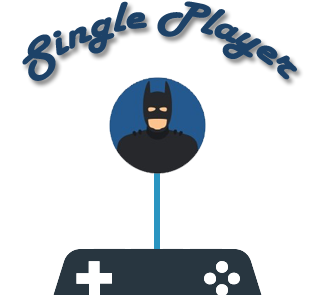
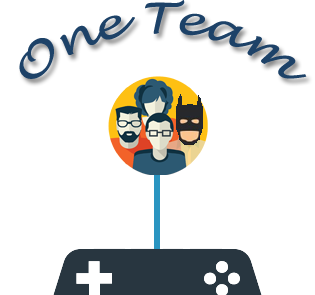
Hola Hop

Changed region(s): [[0.0571, 0.0, 1.0, 0.3051], [0.3429, 0.2441, 0.6857, 0.6102]]

diff --git a/www/templates/start.html b/www/templates/start.html
@@ -1,16 +1,21 @@
 <ion-view view-title="Playlist">
-  <ion-content>
+  <ion-content class="grey lighten-3">
   	<div class="container" style="height: 100%;">
-  	
-	<div style="height: 50%">
-	    <div class="card" style="height: 100%; position: relative; z-index: -1; background-image: url(img/up.png); background-repeat: no-repeat; background-position: 50% 100%; background-size: 60%;">
-	    </div>
-	</div>
-	<div style="height: 50%">
-	    <div class="card" style="height: 100%; position: relative; z-index: -1; background-image: url(img/down.png); background-repeat: no-repeat;     background-position: 50% 10%; background-size: 60%;">
-	    </div>
-	</div>
-	
+		<div style="height: 40%">
+			<a href="#/app/groupCreator">
+			    <div class="card" style="height: 100%; background-image: url(img/up.png); background-repeat: no-repeat; background-position: 50% 100%; background-size: 60%;">
+			    </div>
+		    </a>
+		</div>
+		<div class="center" style="height: 6%">
+			<h4 style="font-family: monospace; color: #283640">CHOOSE MODE</h4>
+		</div>
+		<div style="height: 47%">
+			<a href="#/app/groupCreator">
+			    <div class="card" style="height: 100%; background-image: url(img/down.png); background-repeat: no-repeat; background-position: 50% 0%; background-size: 60%;">
+			    </div>
+		    </a>
+		</div>
 	</div>
   </ion-content>
 </ion-view>
